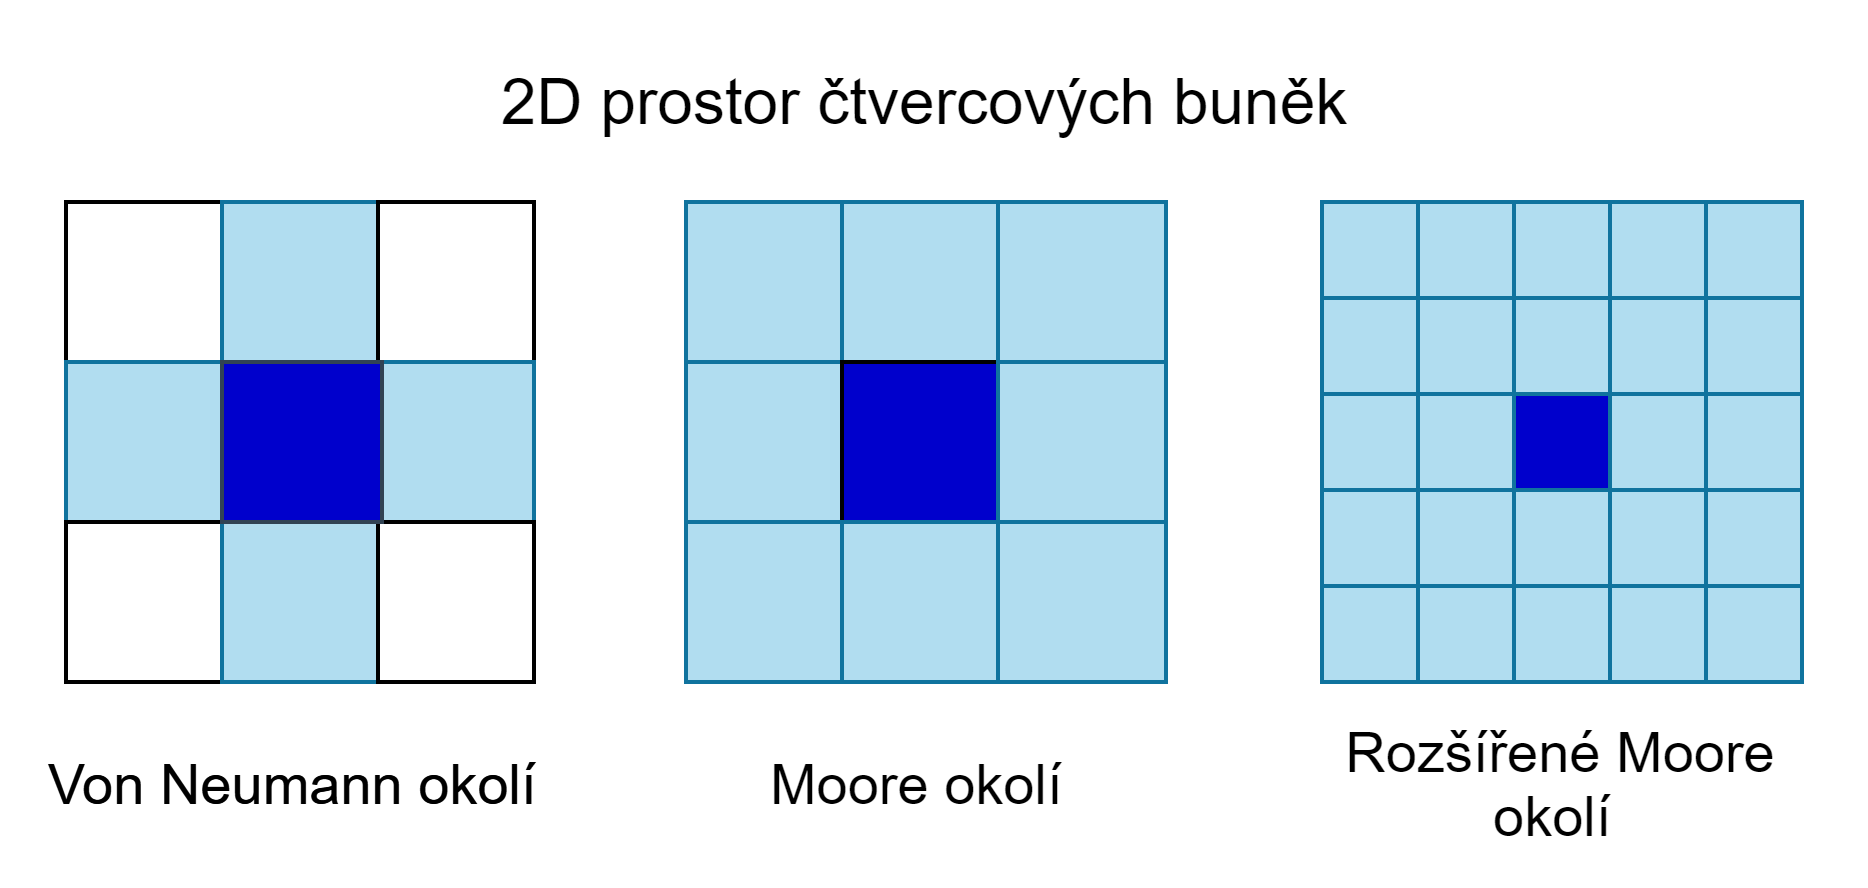
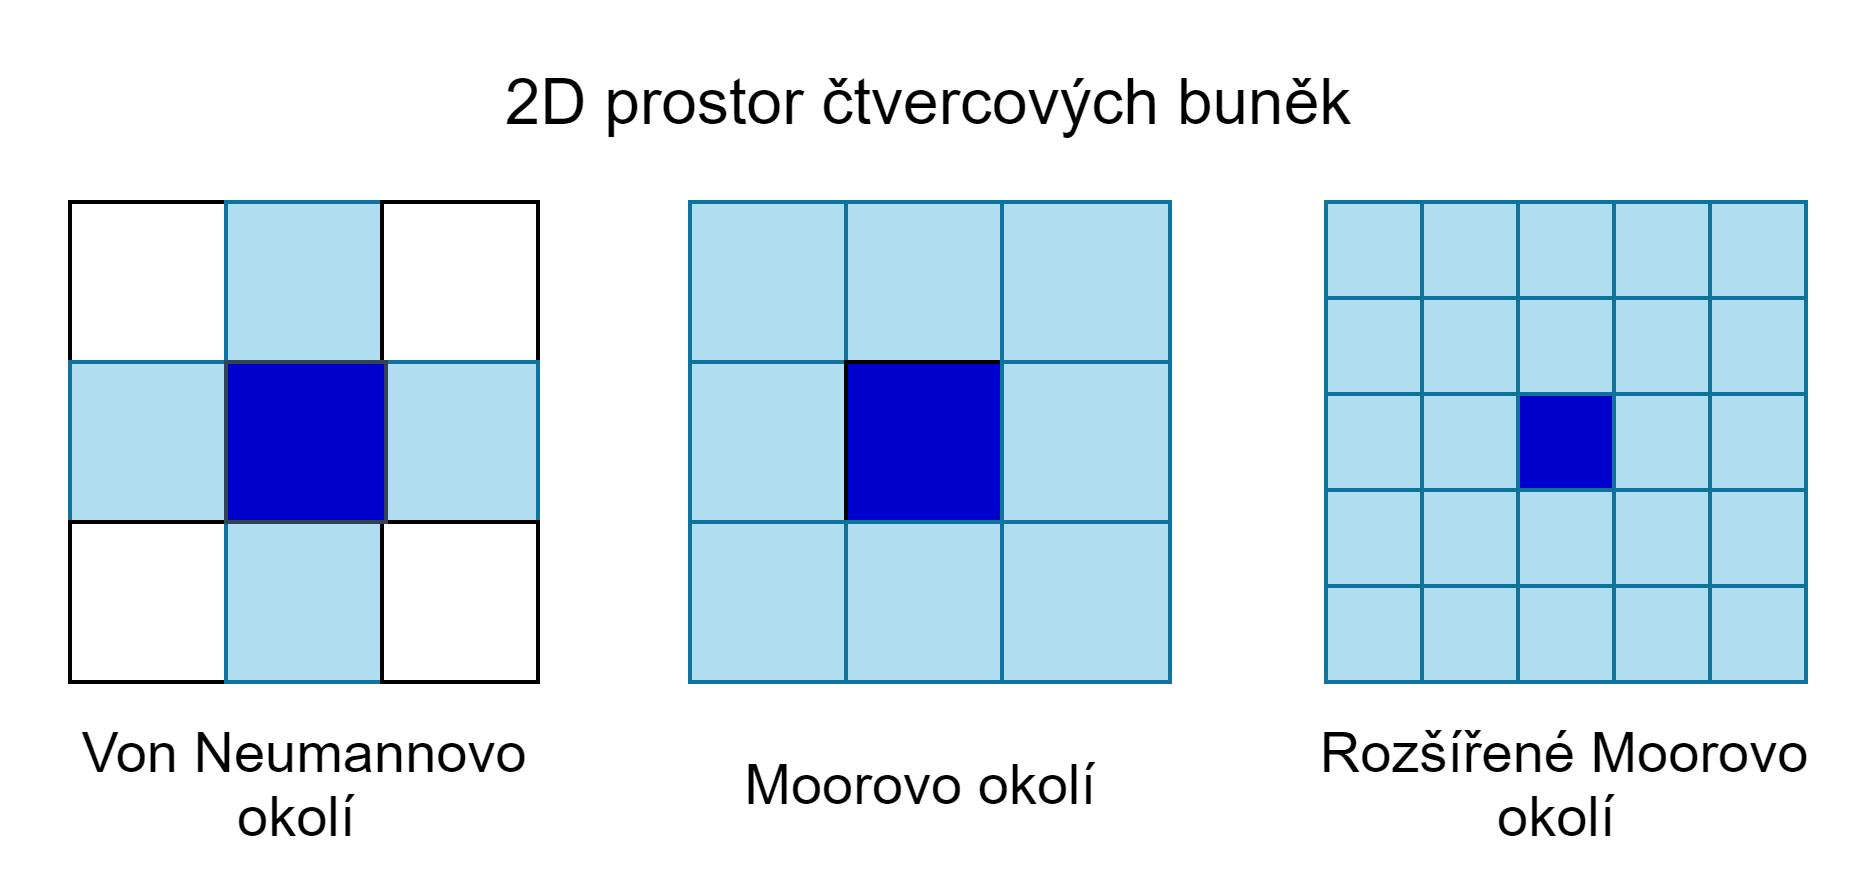
CA Vyuziti ve hrach

diff --git a/projekt-01-kapitoly-chapters.tex b/projekt-01-kapitoly-chapters.tex
@@ -64,9 +64,6 @@ V Godotu byly vytvořeny hry Brotato, Hive Time, Tail Quest a aplikace Dungeoncr
 \section{Celulární automat}
 Celulární automat (nadále označován také zkratkou CA) je dynamický systém a diskrétní model prostorového systému využívaný na modelování fyzikálních či biologických simulací. Prostorový systém vyjadřuje prostorovou dekompozici systému - zkoumaný systém je rozdělen na malé části s definovaných chováním~\cite{ims}.
 
-\subsection*{Historie}
-\todo{pak i pridat obrazek Game of Life}
-
 \subsection*{Základní definice }
 Celulární automat je čtveřice ${(\alpha^{n}, S, N, f)}$, kterou lze dle Stanfordské encyklopedie filozofie~\cite{sep-cellular-automata}, definovat následovně:
 \begin{itemize}
@@ -75,7 +72,7 @@ Celulární automat je čtveřice ${(\alpha^{n}, S, N, f)}$, kterou lze dle Stan
     \item ${ N }$ je konečná množina sousedících buněk (okolí, které může, či nemusí obsahovat i buňku samotnou) pro každou buňku, na kterém záleží její vývoj, ${ N \subseteq \alpha }$,
     \item ${ f }$ je konečná množina pravidel pro přechod mezi stavy -- v každém časovém kroku každá buňka aktualizuje svůj aktuální stav podle deterministické přechodové funkce $\phi : \Sigma^n \rightarrow \Sigma$, která mapuje okolí. Často (i když ne nutně) se počítá, že aktualizace synchronní a bere jako vstup okolí v čase $t$ sousední stavy v bezprostředně předchozím časovém kroku $t-1$.
 \end{itemize}
-CA Game of Life tedy lze zapsat jako:
+CA Game of Life \todo{ref} tedy lze zapsat jako:
 \begin{equation*}
 \begin{split}
     & \left( \alpha^{2}, \right. \\
@@ -96,7 +93,7 @@ Typ okolí závisí na tvaru buněk (čtverec, hexagon \ldots) a také typu pros
     \centering
     \includegraphics[width=0.48\textwidth]{obrazky-figures/ch2/2D-okoli.png}\hspace{0.5cm}
     \includegraphics[width=0.47\textwidth]{obrazky-figures/ch2/jina-okoli.png}
-    \caption{Příklady okolí}
+    \caption{Příklady okolí (tmavě modrá = zkoumaná buňka, světle modrá = okolí)}
     \label{2D-okoli}
 \end{figure}
 
@@ -120,10 +117,87 @@ Stephen Wolfram ve své knize \textit{A New Kind of Science}~\cite{wolfram-NewKi
     \item Téměř všechny počáteční vzory se vyvíjejí do struktur, které interagují složitým a zajímavým způsobem, s tvorbou místních struktur, které jsou schopny přežít po dlouhou dobu. Konečným výsledkem mohou být stabilní nebo oscilující struktury typu 2 (k dosažení může být ale potřeba velký počet kroků). Pod tuto třídu patří Game of Life.
 \end{enumerate}
 
-Některé celulární automaty můžeme označovat také jako \textbf{reverzibilní}. V opoře předmětu IMS~\cite{ims} jsou to systémy, které neztrácí informaci při svém vývoji v čase - což znamená, že v každém okamžiku lze otočit vývoj času a navrátit se k předchozím stavům. Reverzibilní nejsou nikdy CA 4. třídy~\cite{ims}.
+Některé celulární automaty můžeme označovat také jako \textbf{reverzibilní}. V opoře předmětu IMS~\cite{ims} jsou definované jako systémy, které neztrácí informaci při svém vývoji v čase - což znamená, že v každém okamžiku lze otočit vývoj času a navrátit se k předchozím stavům. Reverzibilní nejsou nikdy CA 4. třídy~\cite{ims}.
+
+\subsection*{Historie - Game of Life}
+\todo{Game of Life}
 
 \subsection*{Využití celulárních automatů ve hrách}
-\todo{todo - sypání/voda, mazetrics, cave}
+Jedním z využití CA obsahují hry "padajícího písku", neboli \textit{Falling-sand games/simulators}. Tyto hry jsou nejčastěji 2D, sandboxové (= podporující kreativitu), jsou založeny například na blokovému/rozdělujícímu celulárnímu automatu, které mohou simulovat reálnou fyziku, jelikož jsou reverzibilní a dodržují fyzikální zákon zachování hmot~\cite{schiff2011cellular}. Nejjednodušší okolí využívané na vyhodnocení těchto CA je Margolusovo (viz obrázek \ref{fig:Margolus}) -- 2D mřížka je rozdělena na 2x2 čtverce, které se každou generaci posouvají diagonálně o jednu buňku~\cite{schiff2011cellular} (okolí v čase t se tedy skládá ze všech buněk, které se nacházejí v bloku v aktuálním čase).
+\begin{figure}[h]
+    \centering
+    \includegraphics[width=0.48\textwidth]{obrazky-figures/ch2/Margolus.png}
+    \caption{Margolusovo okolí (tmavě modrá = zkoumaná buňka, červená = 2x2 blok, světle modrá = okolí)}
+    \label{fig:Margolus}
+\end{figure}
+
+\noindent Hráč má při hraní hry přístup k několika materiálům/elementům, které mají každý své vlastní vlastnosti (gravitace, reaktivnost s jinými materiály), se kterými může interagovat na dané ploše. Příkladem těchto her může být The Powder Toy~\footnote{https://powdertoy.co.uk}, The Sandbox (2012), Sandspiel či Noita (hra doplněná o roguelike aspekt).
+\begin{figure}[h]
+    \centering
+    \includegraphics[width=0.6\textwidth]{obrazky-figures/ch2/SandSpiel.png}
+    \caption{Ukázka ze hry Sandspiel}
+    \label{fig:Sandspiel}
+\end{figure}
+\newline
+
+Rozšířenější, a v moderních hrách i častější, je využití CA na procedurální generování terénu -- to můžeme najít ve hrách jako je Terraria, Minecraft  či No Man’s Sky~\cite{Procedural_Game_Map}. Tento přístup nalezneme u her vyžadujících větší a pestrý svět, či vysoký počet úrovní vyžadujících rozmanité překážky. Je to jelikož klasické "lidský" výtvory mohou být drahé 2 způsoby. Manuální navrhovaní obrovské mapy, či 100+ úrovní lidmi zabere mnoho času, energie a může naskytnout repetitivita, také tyto před-vytvořené mapy zabírají mnoho paměti a jejich načítaní může být obtížné na procesor -- procedurální generace tedy vytváří mapy za chodu aplikace, takže vyřeší oba problémy~\cite{Procedural_Game_Map}.
+
+Minecraft například generuje základ své mapy díky stochastickým celulárním automatům spuštěných nad zpracovanými(např. pomocí šumu) výsledky kongruenciálních generátorů~\cite{Minecraft}. Stochaistické/Náhodné celulární automaty, jsou CA u nichž nejsou pravidla deterministická (tj. nepředvídatelná), ale pravděpodobnostní -- to znamená, že místo pevného pravidla určujícího následující stav buňky má zadané pravděpodobnosti možných nových stavů buňky~\cite{DBLP:journals/corr/abs-1304-7185}. Díky tomuto dochází k definování přechodů a prolínání mezi různými poddruhy biomů -- například teplé oblasti mají 50\% šanci, že se promění v poušť, 33\% v savanu a 17\% v roviny, nebo oceány mající 50\% šanci, že se promění v zem~\cite{Minecraft}.
+\begin{figure}[h]
+    \centering
+    \includegraphics[width=0.6\textwidth]{obrazky-figures/ch2/minecraft_biom.png}
+    \caption{Příklad vygenerovaného Minecaft světa s různými biomy}
+    \label{fig:minecraft_biom}
+\end{figure}
+\newline
+
+Některé z jednodušších možností generování prostředí s celulárními automaty je využití algoritmů na náhodné generování jeskyní. Příkladem může být například algoritmus z naučné stránky envatotuts+~\cite{CaveCA}, kde buňka CA může nabýtvat 2 stavů -- živá, mrtvá:
+\begin{algorithm}
+\caption{Cave Generation Algorithm}\label{cave_gen}
+\begin{algorithmic}[1]
+\Function{CaveGeneration}{$\text{matrix}, \text{row}, \text{col}$}
+    \State $\text{deathLimit}$
+    \State $\text{birthLimit}$
+    \State $\text{neighbors} \gets \text{countAliveNeighbours}$
+    \State $\text{cellValue} \gets \text{matrix[row][col]}$
+    \If{$\text{cellValue} = \text{alive}$}
+        \If{$\text{neighbors} < \text{deathLimit}$} \Comment{Too many neighbours} 
+            \State \textbf{return} $\text{dead}$
+        \Else
+            \State \textbf{return} $\text{alive}$
+        \EndIf
+    \Else
+        \If{$\text{neighbors} > \text{birthLimit}$} \Comment{Reborn} 
+            \State \textbf{return} $\text{alive}$
+        \Else
+            \State \textbf{return} $\text{dead}$
+        \EndIf
+    \EndIf
+\EndFunction
+\end{algorithmic}
+\end{algorithm}
+\newline
+Algoritmus funguje na několika jednoduchých principech, se kterými se dá různě manipulovat a to změnou hodnot \verb|deathLimit| a \verb|birthLimit|:
+\begin{itemize}
+    \item narození = pokud je buňka mrtvá a má určitý počet živých sousedů, v následující iteraci oživí (podpora růstu jeskynních chodeb)
+    \item smrt = pokud je buňka živá a má příliš málo mrtvých sousedů, zemře v následující iteraci (vytváření otevřených prostorů v jeskyni).
+    \item přežití = pokud je buňka živá a má dostatečný počet živých sousedů, přežívá do následující iterace (udržování existující struktury jeskyní)
+\end{itemize}
+\begin{figure}[h]
+    \centering
+    \includegraphics[width=0.3\textwidth]{obrazky-figures/ch2/cave.png}
+    \caption{Příklad algoritmu generování jeskyní s využitím Moorova okolí,	deathLimit = 3, birthLimit = 4}
+    \label{fig:cave}
+\end{figure}
+
+Také je možné využít algoritmy, generující strukturu podobnou bludišti. Celulárními automaty s touto vlastní je OCA:Maze~\cite{OCA:Maze}. Hlavním principem tohoto algoritmu s Mooreovým okolím je, že pokud má buňka živých 1 až 5 sousedů tak přežije a ožívá pokud má přesně 3 sousedy -- to znamená, že je pro buňky složitější zemřít a tím se vytváří vzory podobné bludišti, které ale nejsou zcela propojéné (získáváme mnoho nepropojených místností). Existuje i jeho upravená verze(Mazectric), která ale omezuje počet sousedů potřebný přežití na 1 až 4, díky čemuž vznikají rovnější a delší "cesty"~\cite{OCA:Maze}.
+\begin{figure}[h]
+    \centering
+    \includegraphics[width=0.40\textwidth]{obrazky-figures/ch2/OCA:Maze.png}\hspace{0.5cm}
+    \includegraphics[width=0.40\textwidth]{obrazky-figures/ch2/Mazectric.png}
+    \caption{Výsledky CA OCA:Maze a Mazectric}
+    \label{2D-okoli}
+\end{figure}
 
 \section{Grafové algoritmy}
     \todo{Dopsat - takove to na rozdelení do grup/nalezeni nejkratsi cesty (viz IZU)}

diff --git a/projekt.tex b/projekt.tex
@@ -112,7 +112,8 @@
 % Řešení problému, kdy klikací odkazy na obrázky vedou za obrázek
 % This solves the problems with links which leads after the picture
 \usepackage[all]{hypcap}
-
+\usepackage{algorithm}
+\usepackage{algpseudocode}
 
 % Informace o práci/projektu / Information about the thesis
 %---------------------------------------------------------------------------
